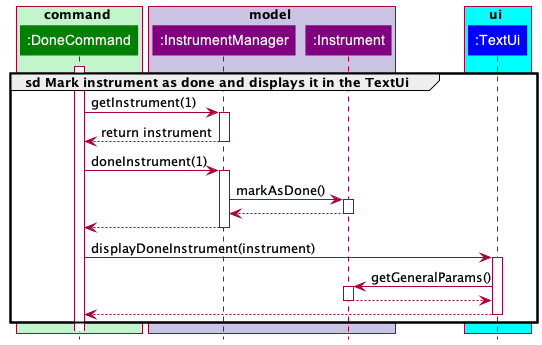
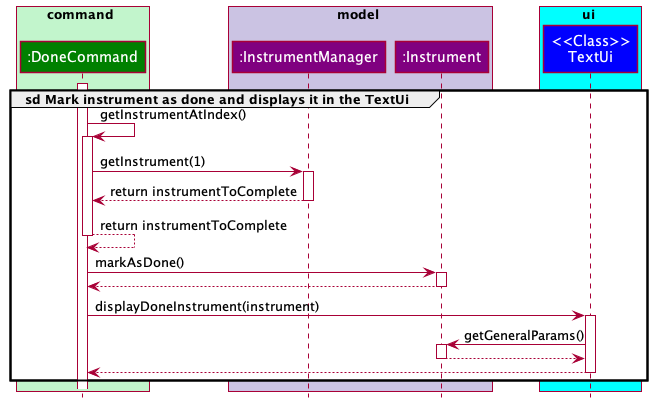
edited accroding to pr

Changed region(s): [[0.0, 0.0, 1.0, 0.9855], [0.4133, 0.6087, 0.5018, 0.6377]]

diff --git a/docs/DeveloperGuide.md b/docs/DeveloperGuide.md
@@ -99,13 +99,13 @@ The `model` package contains the `InstrumentManager` class and `Instrument` clas
 in `InstrumentManager.java` and `Instrument.java` respectively. This figure below represents the class diagram of 
 how the different class work together:
 
-<img src="images/ModelDiagram.png" width="450" height="400"/>
+<img src="images/ModelDiagram.png" width="1040"/>
 
 The `Model` component:
 
 * Stores the instrument data through `Instrument` objects which are contained and managed by the `InstrumentManager`
 * Contains an abstract parent `Instrument` class. The 4 child sub-instrument classes `Crypto`, `Etf`, `Forex` and 
-`Stock` implements the Overridden methods (e.g. `toList()`).
+`Stock` implements the Overridden methods (e.g. `textFileFormatting()`).
 * Contains the `InstrumentManager` class which manages the list of instruments (e.g. add a new instrument to 
 the list). `InstrumentManager` is implemented as a singleton class to ensure that only one instrument list exists.
 This ensures the user only edits one list and prevents possible data corruption (e.g. adding a new instrument to 
@@ -199,6 +199,14 @@ a new text file to store the data. It updates the file by calling the `writeFile
 `InstrumentManager` enabling the program to load pre-existing data.
 * Has some dependencies on the `Model` component as it saves and retrieves data from `Model` objects.
 
+#### Design considerations for decoding functionality
+Given the different types of financial instruments supported by mTracker, the `InstrumentDecoder` class is implemented. 
+Multiple `XYZDecoder` (`XYZ` is a placeholder for the different instrument types, for example `EtfDecoder`) child classes of
+`InstrumentDecoder` support the decoding of different instruments and their parameters.
+This implementation provides greater extensibility and code re-usability to the decoding functionality to support more 
+instrument types. Greater cohesion is achieved by separating the classes to give more focus on each instrument type and
+a higher level of abstraction.
+
 ## Implementation
 
 ### Add instrument feature
@@ -229,8 +237,8 @@ the `TextUi` class.
 The loading of pre-existing data is mainly handled by the `filemanager` and `model` components. The main method calls 
 `Storage#loadFileData(instrumentManager)` which uses `InstrumentDecoder#readFile(instrumentManager, fileData)`. This method calls 
 `InstrumentDecoder#addSavedInstrumentToList(instrumentManager, textSegment)` for each pre-existing instrument which will add the 
-corresponding instrument in the `InstrumentManager` through calling the `XYZDecoder#addXYZToList`. In the event
-the instrument is not one of the 4 types of instruments, the `InstrumentDecoder` will throw a new `InvalidInstrumentInFileError`
+corresponding instrument in the `InstrumentManager` through calling the `XYZDecoder#addXYZToList(textSegment, instrumentManager)`. 
+In the event the instrument is not one of the 4 types of instruments, the `InstrumentDecoder` will throw a new `InvalidInstrumentInFileError`
 and display the corresponding error message.
 
 The figures below represents the sequence diagrams when the user loads a pre-existing crypto:
@@ -247,7 +255,7 @@ More details about the reference frame for adding the decoded instrument into th
 
 The process for loading other pre-existing instruments follow a similar process to the sequence above. The main difference
 would be the type of instrument decoder called, the different instrument specific decoded parameters and the type of instrument
-added to the `InstrumentManager`. For example when loading a stock instead of calling `CryptoDecoder#addCryptoToList(textSegment, instrumentManager`
+added to the `InstrumentManager`. For example when loading a stock instead of calling `CryptoDecoder#addCryptoToList(textSegment, instrumentManager)`
 it will call `StockDecoder#addStockToList(textSegement, instrumentManager)`.
 
 If loading the file data has any error, it will throw the corresponding file error. This file error will display the
